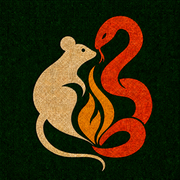
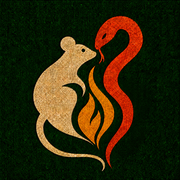
Refine Snakes and Rats branding

diff --git a/frontend/src/components/SlidePuzzleLoader.tsx b/frontend/src/components/SlidePuzzleLoader.tsx
@@ -34,14 +34,14 @@ const THEMES: Record<Theme, { scene: string; tileImg: string; label: string; fra
     // Match the .app-shell ground gradient (index.css) so the loader blends
     // into the sand page instead of reading as a white panel over it.
     scene: 'radial-gradient(circle at 100% 0%, rgba(196,84,50,0.08), transparent 62vw), linear-gradient(180deg, #f2e7d2, #e9dcc3)',
-    tileImg: 'url("/puzzle-flat-dark.webp?v=20260831-texture")',
+    tileImg: 'url("/puzzle-flat-dark.webp?v=20260831-tail")',
     label: '#1e3a2f',
     frame: 'linear-gradient(158deg, #23503d, #122318)',
     frameShadow: 'inset 0 3px 0 rgba(255,255,255,0.06), inset 0 -8px 16px rgba(0,0,0,0.5), 0 34px 44px -12px rgba(20,40,30,0.55)',
   },
   locked: {
     scene: 'radial-gradient(circle at 78% 8%, rgba(196,84,50,0.18), transparent 520px), linear-gradient(180deg, #132e25, #0e1f19)',
-    tileImg: 'url("/puzzle-flat-light.webp?v=20260831-texture")',
+    tileImg: 'url("/puzzle-flat-light.webp?v=20260831-tail")',
     label: '#f2e9db',
     frame: 'linear-gradient(158deg, #ecdfc5, #d7c6a4)',
     frameShadow: 'inset 0 3px 0 rgba(255,248,232,0.35), inset 0 -8px 16px rgba(120,95,60,0.30), 0 34px 48px -12px rgba(0,0,0,0.55)',

diff --git a/frontend/src/components/AuthScene.tsx b/frontend/src/components/AuthScene.tsx
@@ -29,7 +29,7 @@ export function AuthScene({
       <div className="w-full max-w-sm">
         <div className="flex flex-col items-center text-center">
           <img
-            src="/icon-512.webp?v=20260830"
+            src="/icon-512.webp?v=20260831-tail"
             alt=""
             width={92}
             height={92}
@@ -37,7 +37,8 @@ export function AuthScene({
           />
           <h1 className="mt-5 font-brand text-2xl font-bold leading-none tracking-wide">
             <span className="text-cream-50">SNAKES</span>{' '}
-            <span className="text-terracotta-500">AND RATS</span>
+            <span className="text-gold-300">AND</span>{' '}
+            <span className="text-terracotta-500">RATS</span>
           </h1>
           {eyebrow && (
             <p className="mt-2 text-[11px] font-semibold uppercase tracking-[0.22em] text-terracotta-200">

diff --git a/frontend/index.html b/frontend/index.html
@@ -2,10 +2,10 @@
 <html lang="en">
   <head>
     <meta charset="UTF-8" />
-    <link rel="icon" href="/favicon.ico?v=20260830" sizes="16x16 32x32 48x48" />
+    <link rel="icon" href="/favicon.ico?v=20260831-tail" sizes="16x16 32x32 48x48" />
     <meta name="viewport" content="width=device-width, initial-scale=1.0, viewport-fit=cover" />
-    <link rel="manifest" href="/manifest.webmanifest?v=20260830" />
-    <link rel="apple-touch-icon" href="/apple-touch-icon.png?v=20260830" />
+    <link rel="manifest" href="/manifest.webmanifest?v=20260831-tail" />
+    <link rel="apple-touch-icon" href="/apple-touch-icon.png?v=20260831-tail" />
     <meta name="theme-color" content="#1e3a2f" />
     <script>
       try {

diff --git a/frontend/src/pages/AdminPage.tsx b/frontend/src/pages/AdminPage.tsx
@@ -2004,11 +2004,13 @@ function BrandingCompareSection() {
   const marks = [
     { src: '/icon-tribalknowledge.webp', caption: 'Before', word: <span className="text-forest-800">TRIBAL KNOWLEDGE</span> },
     {
-      src: '/icon-512.webp?v=20260830',
+      src: '/icon-512.webp?v=20260831-tail',
       caption: 'After',
       word: (
         <>
-          <span className="text-forest-800">SNAKES</span> <span className="text-terracotta-500">AND RATS</span>
+          <span className="text-forest-800">SNAKES</span>{' '}
+          <span className="text-gold-700">AND</span>{' '}
+          <span className="text-terracotta-500">RATS</span>
         </>
       ),
     },

diff --git a/frontend/src/components/Layout.tsx b/frontend/src/components/Layout.tsx
@@ -127,7 +127,8 @@ export function Layout() {
             className="inline-flex min-h-11 shrink-0 items-center font-brand text-xl font-bold leading-none tracking-wide md:text-2xl"
           >
             <span className="app-brand-primary mr-1.5 text-cream-50">SNAKES</span>
-            <span className="app-brand-secondary text-terracotta-600">AND RATS</span>
+            <span className="mr-1.5 text-gold-300">AND</span>
+            <span className="app-brand-secondary text-terracotta-500">RATS</span>
           </NavLink>
 
           {authed && (

diff --git a/frontend/src/pages/NotFoundPage.tsx b/frontend/src/pages/NotFoundPage.tsx
@@ -6,7 +6,7 @@ export function NotFoundPage() {
   return (
     <div className="mx-auto flex max-w-md flex-col items-center py-16 text-center sm:py-24">
       <img
-        src="/icon-512.webp?v=20260830"
+        src="/icon-512.webp?v=20260831-tail"
         alt=""
         width={72}
         height={72}

diff --git a/frontend/src/components/ColdStart.tsx b/frontend/src/components/ColdStart.tsx
@@ -17,7 +17,7 @@ export function ColdStart() {
   return (
     <div className="mx-auto flex max-w-md flex-col items-center py-16 text-center sm:py-24">
       <img
-        src="/icon-512.webp?v=20260830"
+        src="/icon-512.webp?v=20260831-tail"
         alt=""
         width={72}
         height={72}

diff --git a/design/icon-concepts/export_snakes_and_rats.py b/design/icon-concepts/export_snakes_and_rats.py
@@ -1,0 +1,76 @@
+#!/usr/bin/env python3
+"""Export the Snakes and Rats source art for the app and loader."""
+
+from __future__ import annotations
+
+import argparse
+from pathlib import Path
+
+from PIL import Image, ImageDraw, ImageFilter, ImageOps
+
+
+HERE = Path(__file__).resolve().parent
+DEFAULT_SOURCE = HERE / "snakes-and-rats-final-v2.png"
+DEFAULT_LIGHT_SOURCE = HERE / "snakes-and-rats-final-v2-light.png"
+DEFAULT_OUTPUT = HERE.parent.parent / "frontend" / "public"
+
+
+def resize(source: Image.Image, size: int) -> Image.Image:
+    return source.resize((size, size), Image.Resampling.LANCZOS)
+
+
+def woven_background(source: Image.Image, size: int) -> Image.Image:
+    """Build a full forest canvas from an object-free corner of the source."""
+    patch_size = source.width // 5
+    patch = source.crop((0, 0, patch_size, patch_size))
+    return resize(patch, size)
+
+
+def maskable(source: Image.Image) -> Image.Image:
+    canvas = woven_background(source, 512)
+    inset_size = 400
+    inset = resize(source, inset_size)
+
+    # Feather only the source square's edge. The animals remain crisp while the
+    # two copies of the forest weave blend without a visible inset boundary.
+    matte = Image.new("L", (inset_size, inset_size), 255)
+    edge = 28
+    draw = ImageDraw.Draw(matte)
+    for i in range(edge):
+        opacity = round(255 * (i + 1) / edge)
+        draw.rectangle((i, i, inset_size - i - 1, inset_size - i - 1), outline=opacity)
+    matte = matte.filter(ImageFilter.GaussianBlur(1.25))
+    offset = ((512 - inset_size) // 2,) * 2
+    canvas.paste(inset, offset, matte)
+    return canvas
+
+
+def export(source_path: Path, light_source_path: Path, output_dir: Path) -> None:
+    source = Image.open(source_path).convert("RGB")
+    light_source = Image.open(light_source_path).convert("RGB")
+    output_dir.mkdir(parents=True, exist_ok=True)
+
+    resize(source, 512).save(output_dir / "icon-512.webp", "WEBP", quality=95, method=6)
+    resize(source, 192).save(output_dir / "icon-192.webp", "WEBP", quality=95, method=6)
+    maskable(source).save(output_dir / "icon-512-maskable.webp", "WEBP", quality=95, method=6)
+    resize(source, 180).save(output_dir / "apple-touch-icon.png", "PNG", optimize=True)
+    resize(source, 48).save(
+        output_dir / "favicon.ico",
+        "ICO",
+        sizes=[(16, 16), (32, 32), (48, 48)],
+    )
+    resize(source, 640).save(output_dir / "puzzle-flat-dark.webp", "WEBP", quality=95, method=6)
+    resize(light_source, 640).save(output_dir / "puzzle-flat-light.webp", "WEBP", quality=95, method=6)
+
+
+def main() -> None:
+    parser = argparse.ArgumentParser()
+    parser.add_argument("--source", type=Path, default=DEFAULT_SOURCE)
+    parser.add_argument("--light-source", type=Path, default=DEFAULT_LIGHT_SOURCE)
+    parser.add_argument("--output-dir", type=Path, default=DEFAULT_OUTPUT)
+    args = parser.parse_args()
+    export(args.source, args.light_source, args.output_dir)
+
+
+if __name__ == "__main__":
+    main()

diff --git a/design/icon-concepts/README.md b/design/icon-concepts/README.md
@@ -54,3 +54,13 @@ season-one Tribal Council speech. A cream rat and terracotta snake frame a gold
 hidden flame on the established forest-green textured canvas. The final source
 art is `snakes-and-rats-final.png`; production favicon, app-icon, maskable-icon,
 and sliding-puzzle exports live under `frontend/public`.
+
+## 2026-08-31 lower-snake refinement
+
+The lower terracotta coil read as a detached backwards-C at app-icon size.
+`snakes-and-rats-final-v2.png` replaces it with one continuous snake body that
+rises from behind the flame and tapers to a simple tail. The rat, flame,
+face-to-face composition, woven texture, and Jungle Earth palette stay intact.
+`snakes-and-rats-final-v2-light.png` is the cream-field/forest-rat counterpart
+used by the locked-theme puzzle. Run `export_snakes_and_rats.py` to rebuild all
+production icon and puzzle sizes from the two source files.
